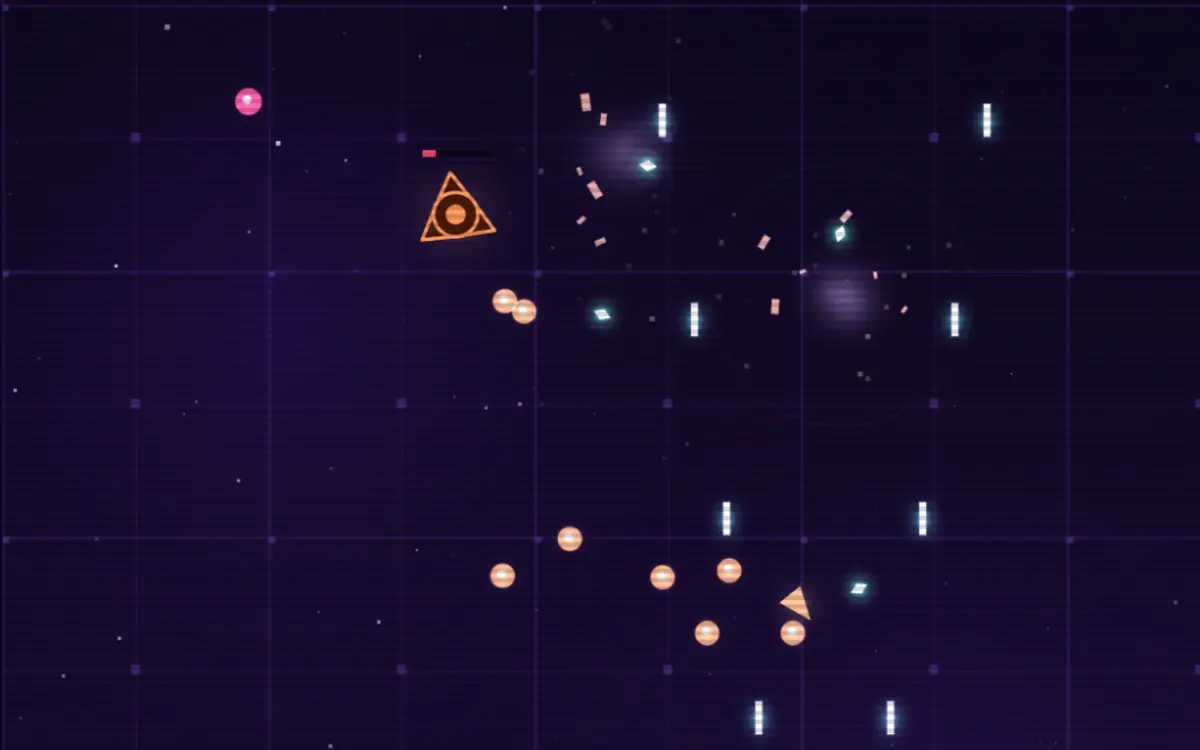
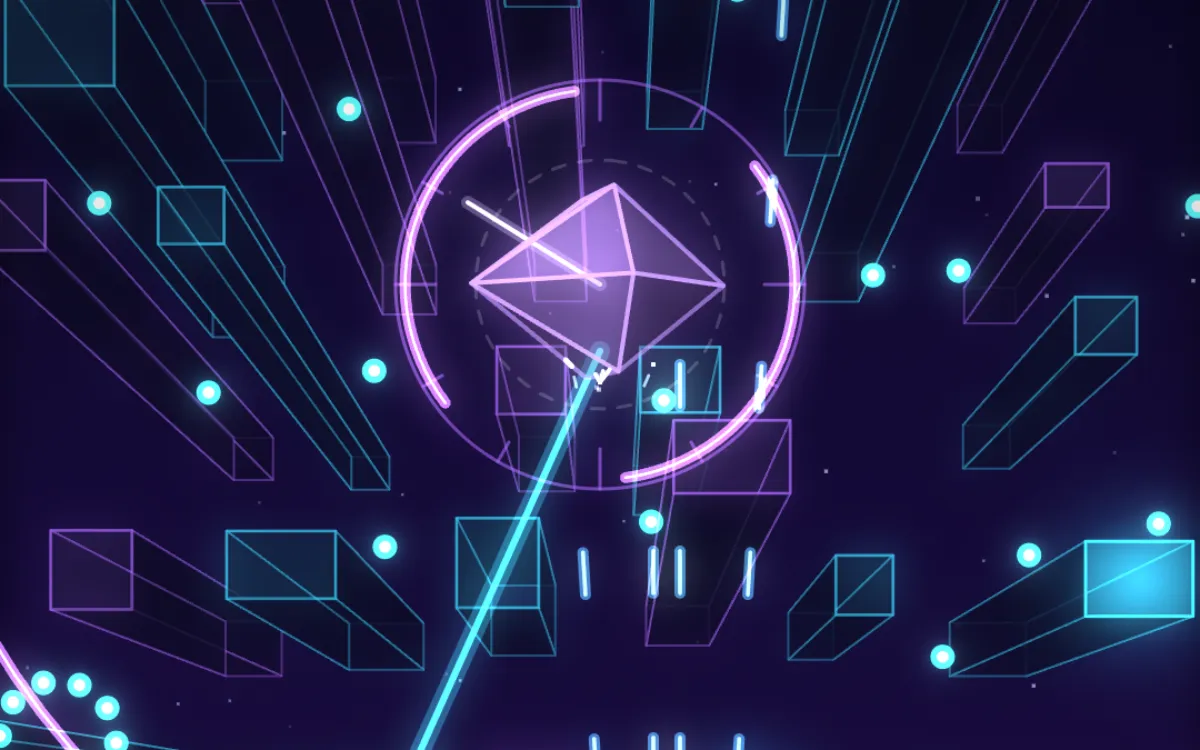
Nebula Strike 5 devient Résonance : nouvelle présentation et nouvelle vignette
Claude-Session: https://claude.ai/code/session_017SKJ7PRHZJexDYbSwrGwn1

diff --git a/index.html b/index.html
@@ -350,12 +350,12 @@ button{font:inherit;color:inherit}
             <span class="w-n" aria-hidden="true">03</span>
           </a>
         </li>
-        <li class="w" data-cat="jeu" style="--h:35">
+        <li class="w" data-cat="jeu" style="--h:300">
           <a href="/shmups/opus5.5/">
             <img class="w-img" src="/vignettes/shmups-opus5.5.webp" alt="" width="1200" height="750" loading="lazy" decoding="async">
             <span class="w-t"><span>Nebula Strike 5</span></span>
             <span class="w-m">Claude Opus 5.5</span>
-            <span class="w-d">La suite du 4, par Claude Opus 5.5 : esquive invulnérable, foudre qui saute de cible en cible, cristaux à la chaîne, six boss — jusqu'à un trou noir qui <em>aspire le vaisseau</em>.</span>
+            <span class="w-d">Une refonte complète, en 3D vectorielle : la musique, générée en temps réel, <em>est</em> l'horloge du jeu. Les ennemis tirent en mesure, les verrouillages jouent des notes, et le dernier boss éteint la musique.</span>
             <span class="w-n" aria-hidden="true">04</span>
           </a>
         </li>
